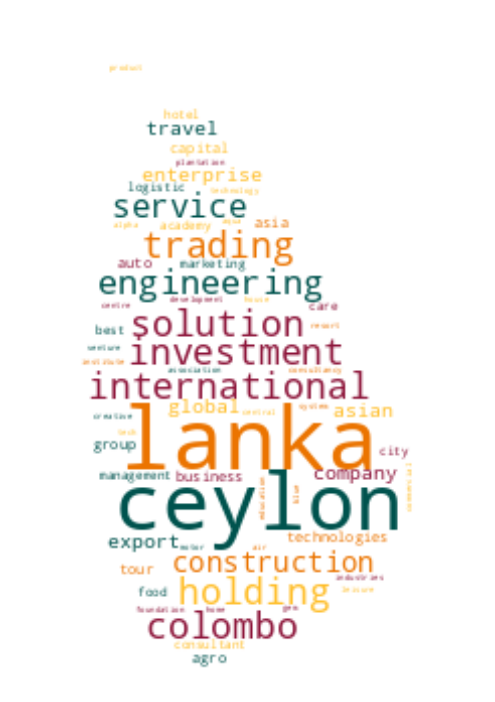
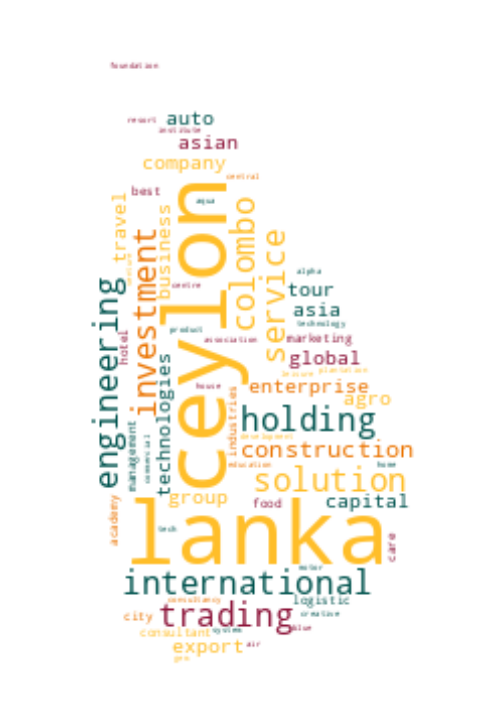
pipeline Mon Dec  4 03:23:26 UTC 2023

Changed region(s): [[0.1515, 0.1496, 0.8485, 0.9573], [0.2121, 0.0897, 0.3333, 0.1197]]

diff --git a/README.md b/README.md
@@ -4,40 +4,40 @@ Data Scraped from Registrar of Companies - Sri Lanka (https://eroc.drc.gov.lk)
 
 ![word-cloud](data/word_cloud.png)
 
-Scraped **23,467** Companies as of *2023-12-04 08:36:02*.
+Scraped **23,469** Companies as of *2023-12-04 08:53:25*.
 
 ## List of 30 Random Companies
 
-* AGRIVEST - PV00218702
-* AKITHRA - PV00280201
-* AMTEK INTERIOR SOLUTIONS - PV00274759
-* ANABOND - NF624
-* API NIHATHAMANI WEMU - GA2832
-* ARIMBU PLANTATION - PV00278363
-* ARIVAALAYAM - PV00249970
-* ASSOCIATION OF THE BAMBOO GROWERS AND THE INDUSTRY - GA2893
-* AUTO ARMANI - PV00270193
-* BAKER STREET - PV84760
-* BIG M ENGINEERS - PV00259502
-* BLUE OCEAN HOLIDAYS - PV86153
-* BLULINE LANDS - PV106356
-* BRANDCO LANKA MARKETING - PV74222
-* BREAKING WAVES - PV65240
-* BTS TECH - PV00284094
-* BURLTEX LANKA - PV63371
-* BUSINESS WORLD INTERNATIONAL ORGANIZATION - PV00207336
-* CANTINA LANKA - PV121433
-* CARE IMPORT EXPORT AND DISTRIBUTION - PV106653
-* CEYLINE INTERGRATED - PV00220935
-* CEYLON SELENE TEA - PV00216119
-* CEYLON TEA BEVERAGE - PV98169
-* CHILTON MEDICARE - PV6913
-* CLASSIC AGENCIES - PV00272356
-* CME GARMENTS - PV00255856
-* COASTAL POWER & ENERGY - PV00200137
-* COLOMBO HARDWARE - PV68887
-* COLUMBIA PRINTERS - PV00236300
-* COMMERCIAL AUTO MART - PV00241635
+* AAZIR MOBILE - PV66579
+* ABEL INTERIORS - PV00224042
+* ACCOLADE MARINE - PV121141
+* ACURA HOLDINGS - PV112397
+* AFIC ENGINEERING - PV00268623
+* AGELKA HARDWARE - PV00203347
+* AGGIE LANKA HOLDINGS - PV103661
+* AHANGAMA PADDY VIEW INVESTMENTS - PV00282598
+* AIR COURIER AND LOGISTICS - PV00210618
+* AJITH LIYANAGE TOURING COMPANY - PV104222
+* AKIKO CONSULTING - PV00277171
+* AMENDIX - PV00237861
+* AQUAFORCE HYDRO SOLUTIONS - PV00289414
+* ARK HOMES - PV00205143
+* AUTOCOM - PV9367
+* BIXCELLENCE - PV00272463
+* BORDERS - PV63165
+* BYOB COLOMBO - PV00275584
+* CAPTAIN FOOD FIESTA - PV00261614
+* CHEAP & BEST - PV00245063
+* CLUTCH AUTOMATION - PV12279
+* COCO MONTE - PV00234135
+* COHORT CAPITAL - PV79646
+* COMFYLOVE - PV00286010
+* COMPGMIA PROGETTI & CASTRUZIONI S.P.A. - F362
+* CONSTRUCTIVE SOLUTIONS - PV00280775
+* CONTINENTAL EXPO - PV67886
+* CONVERZED NETWORK SOLUTIONS - PV119090
+* COSMO COLOMBO HOLDINGS - PV00244879
+* COT LANKA AGRO - PV3697
 
 ## List of Early Registrations
 
